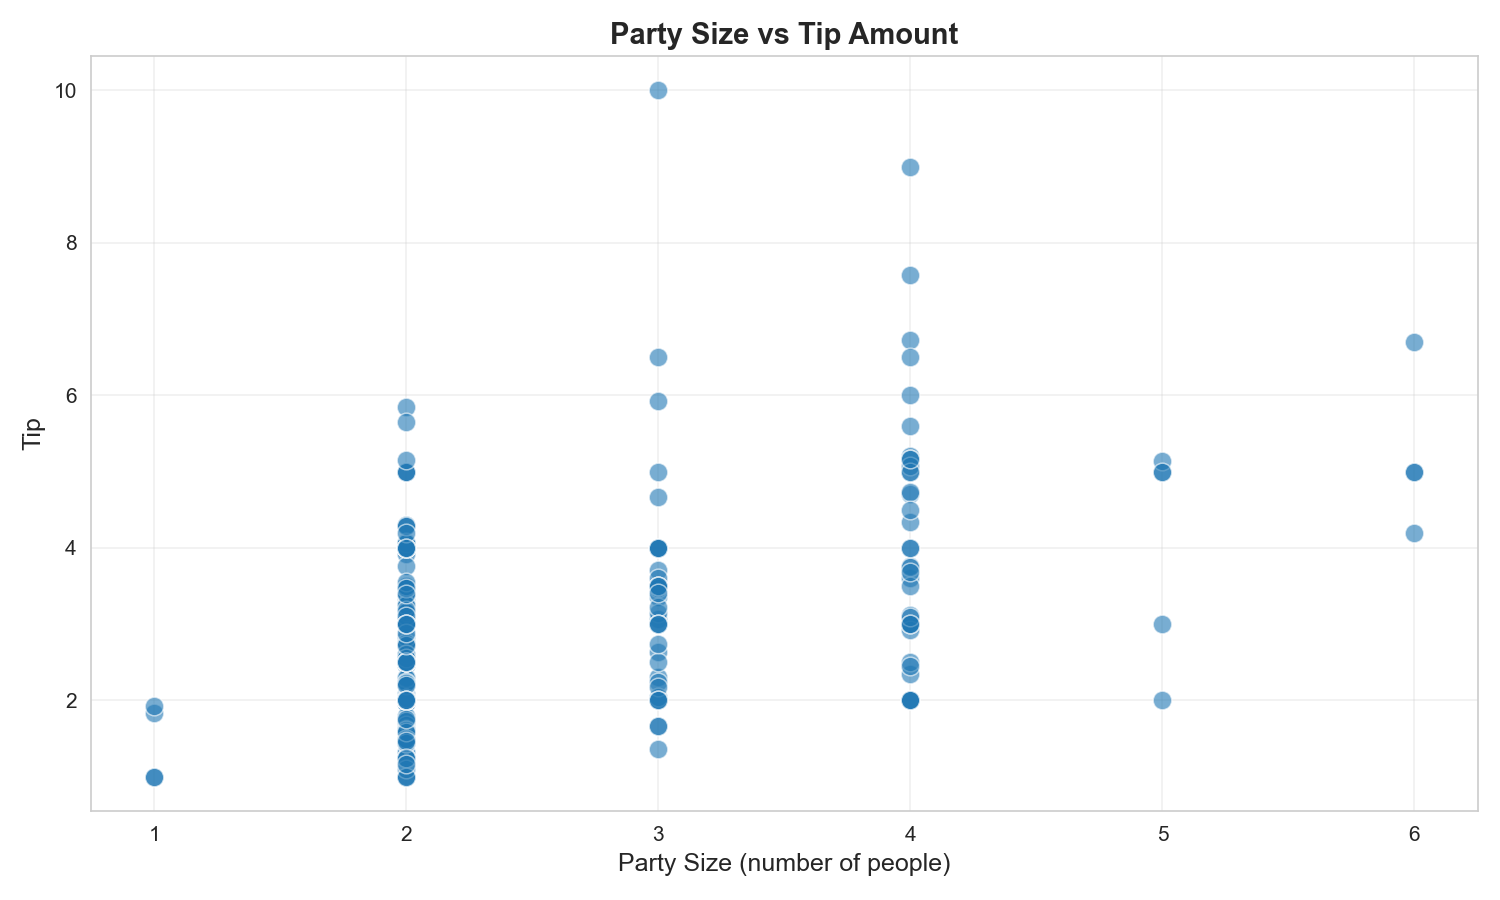
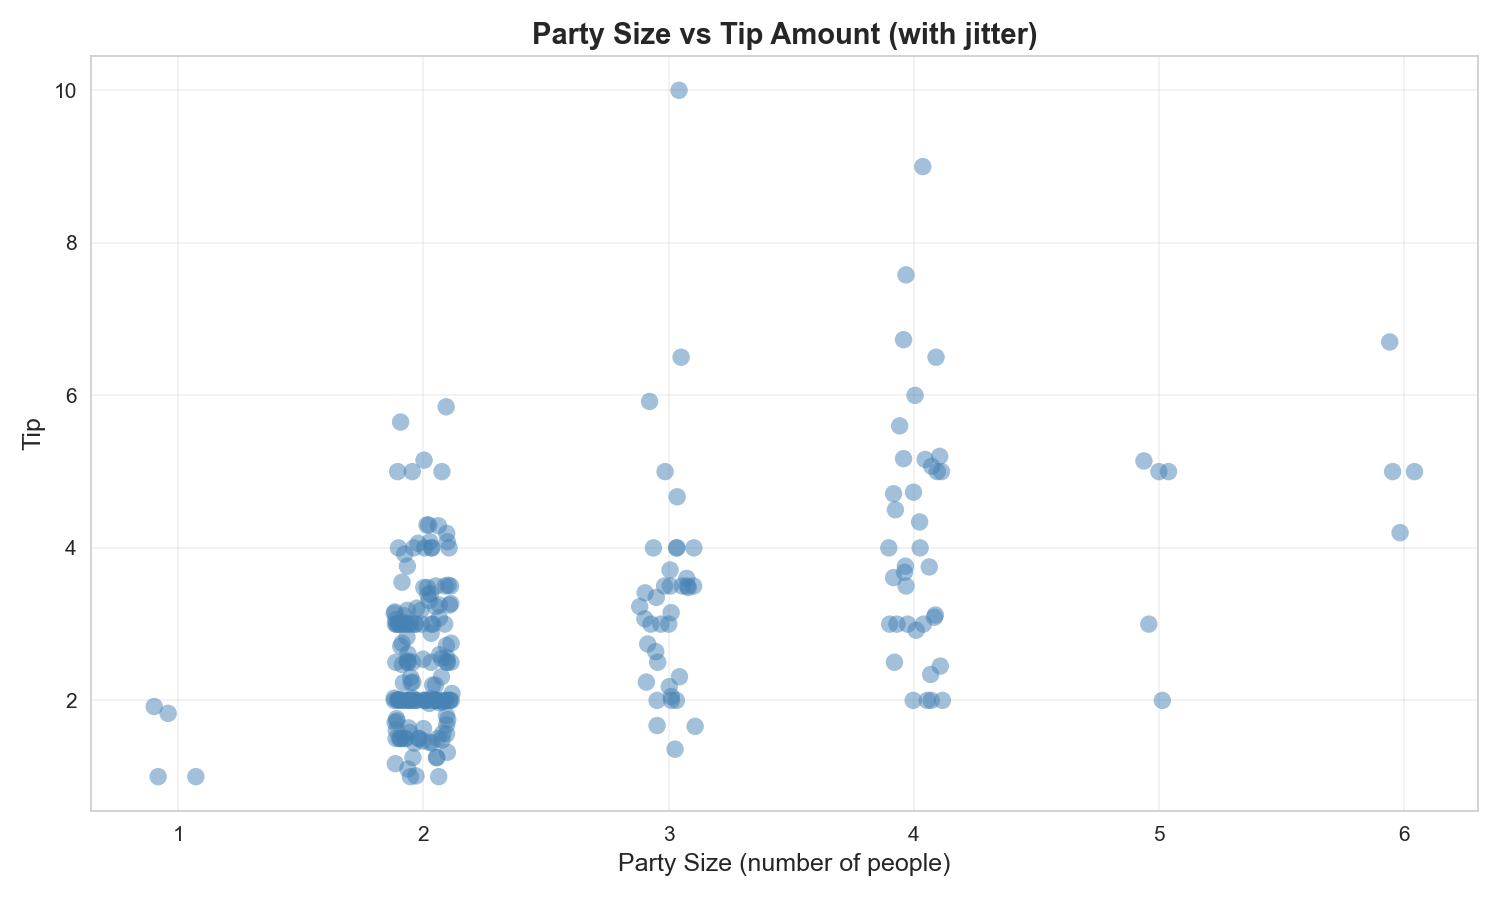
MLR update

diff --git a/multi-linear-regression/Multi-Linear-Regression-Tips_v2.py b/multi-linear-regression/Multi-Linear-Regression-Tips_v2.py
@@ -144,17 +144,6 @@ plt.tight_layout()
 plt.savefig("mlr_scat_bill.png", dpi=150)
 plt.show()
 
-# Party Size vs Tip
-plt.figure(figsize=(10, 6))
-sns.scatterplot(data=df_model, x='size', y='tip', alpha=0.6, s=80)
-plt.title('Party Size vs Tip Amount', fontsize=14, fontweight='bold')
-plt.xlabel('Party Size (number of people)', fontsize=12)
-plt.ylabel('Tip', fontsize=12)
-plt.grid(True, alpha=0.3)
-plt.tight_layout()
-plt.savefig("mlr_scat_size.png", dpi=150)
-plt.show()
-
 # Time of Day vs Tip (Box plot)
 plt.figure(figsize=(10, 6))
 sns.boxplot(data=df, x='time', y='tip', palette='Set2')
@@ -888,11 +877,11 @@ plt.xticks(ticks=sorted(df_model['size'].unique()),
            labels=sorted(df_model['size'].unique()))
 plt.xlabel('Party Size (number of people)', fontsize=12)
 plt.ylabel('Tip', fontsize=12)
-plt.title('Party Size vs Tip Amount (with jitter to reduce overplotting)',
+plt.title('Party Size vs Tip Amount (with jitter)',
           fontsize=14, fontweight='bold')
 plt.grid(True, alpha=0.3)
 plt.tight_layout()
-plt.savefig("mlr_scat_size_jitter.png", dpi=150)
+plt.savefig("mlr_scat_size.png", dpi=150)
 plt.show()
 
 print("\nNote: Small horizontal jitter applied to reveal the true density of observations at each party size value. The integer axis ticks are preserved.")